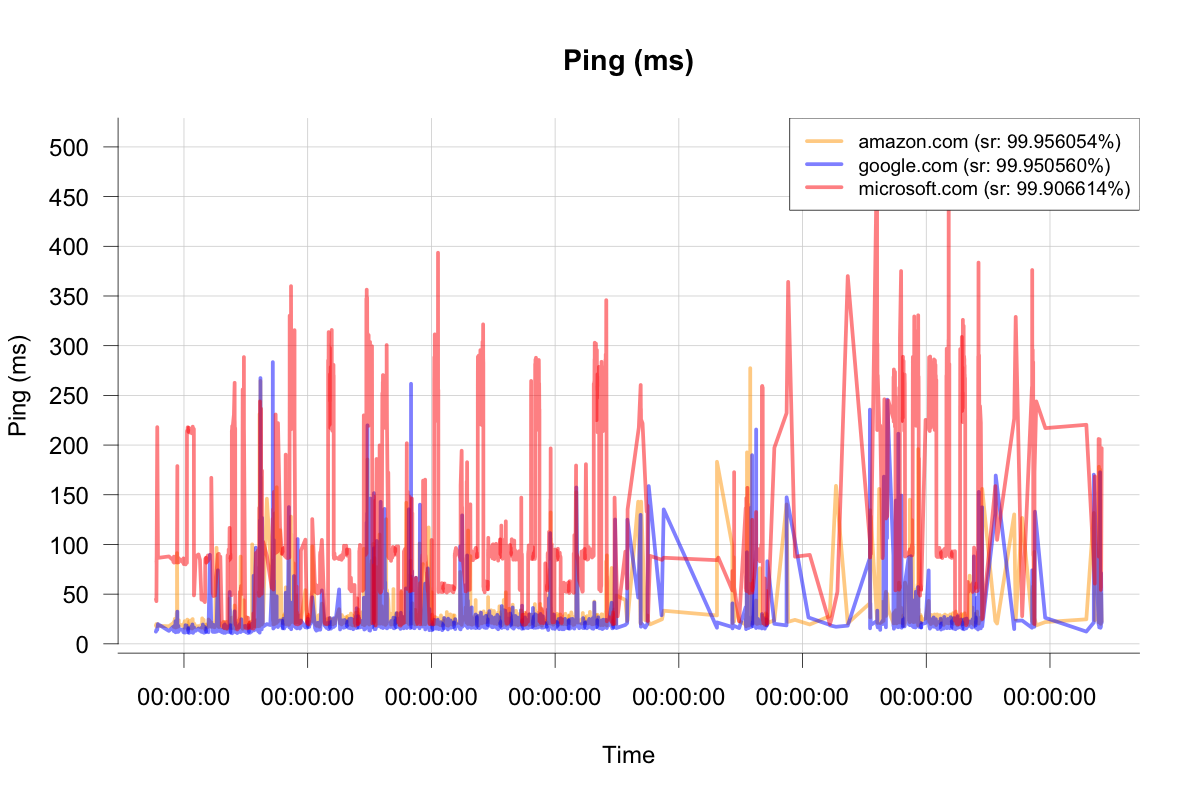
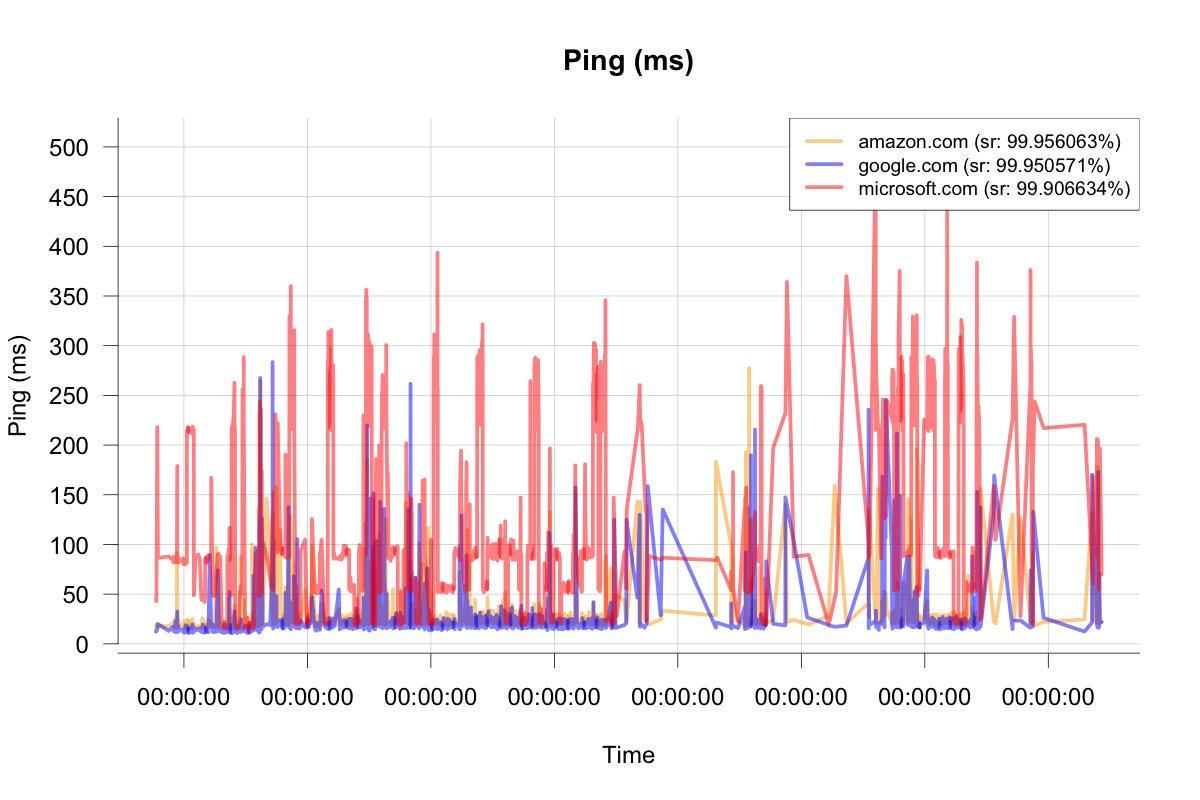
update netmon

diff --git a/netmon/index.html b/netmon/index.html
@@ -1,10 +1,7 @@
-Network Monitor - last updated Sat Oct 26 10:16:59 EDT 2024
+Network Monitor - last updated Sat Oct 26 10:22:50 EDT 2024
 ![Ping](netmon.png)
 ```
 time                 site           snd  rec  min_ms   avg_ms   max_ms   sd
-2024-10-26 09:34:00  google.com     4    4    39.139   88.397   177.811  53.657
-2024-10-26 09:34:04  amazon.com     4    4    19.404   22.506   24.625   1.940
-2024-10-26 09:34:07  microsoft.com  4    4    90.519   136.499  210.908  45.015
 2024-10-26 09:35:00  google.com     4    4    13.538   17.102   23.307   3.701
 2024-10-26 09:35:03  amazon.com     4    4    22.701   48.460   107.046  34.510
 2024-10-26 09:35:07  microsoft.com  4    4    88.058   90.538   92.372   1.608
@@ -62,6 +59,9 @@ time                 site           snd  rec  min_ms   avg_ms   max_ms   sd
 2024-10-26 10:01:46  google.com     4    4    17.560   21.247   26.254   3.159
 2024-10-26 10:01:49  amazon.com     4    4    20.434   22.581   24.228   1.520
 2024-10-26 10:01:53  microsoft.com  4    4    84.440   196.884  530.904  192.850
+2024-10-26 10:22:40  google.com     4    4    18.348   22.029   30.699   5.030
+2024-10-26 10:22:43  amazon.com     4    4    18.666   21.441   24.317   2.052
+2024-10-26 10:22:46  microsoft.com  4    4    18.380   69.879   140.703  49.449
 ```
 
 <!-- This will refresh the page every 60 seconds -->
